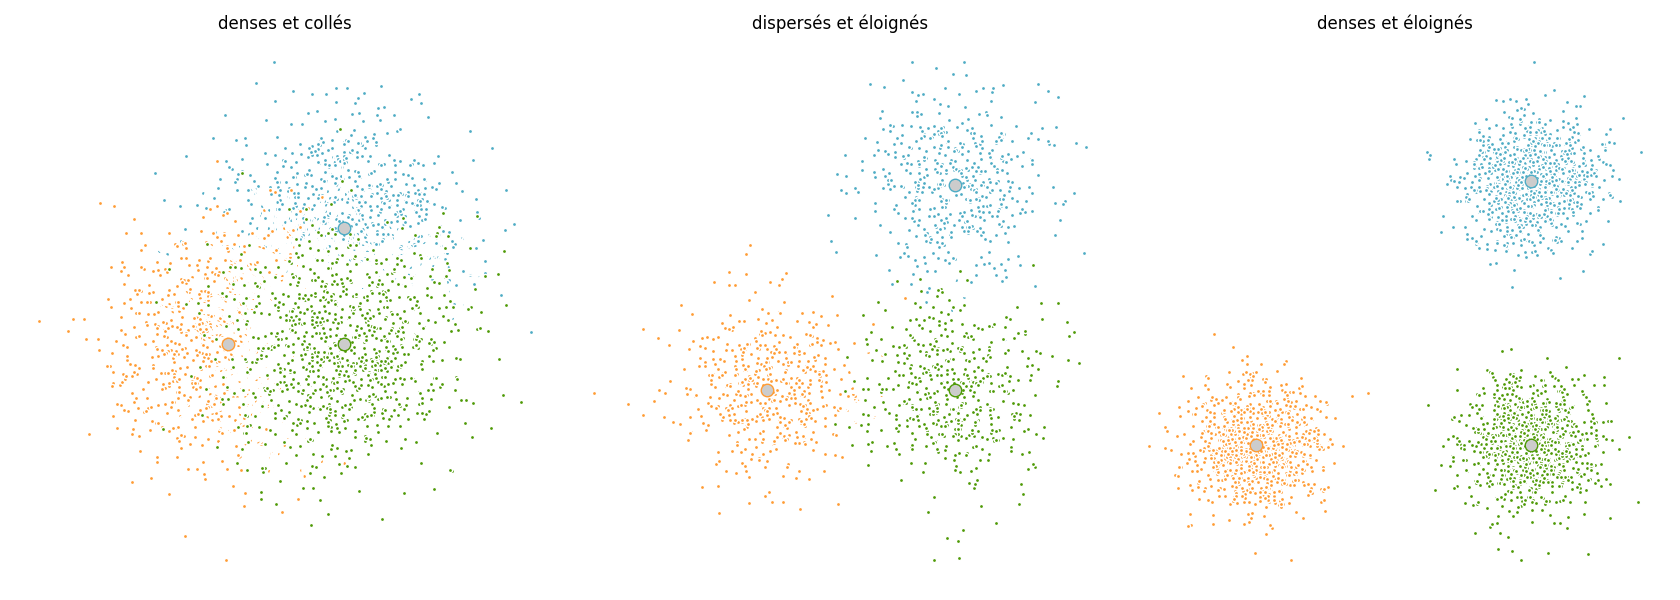
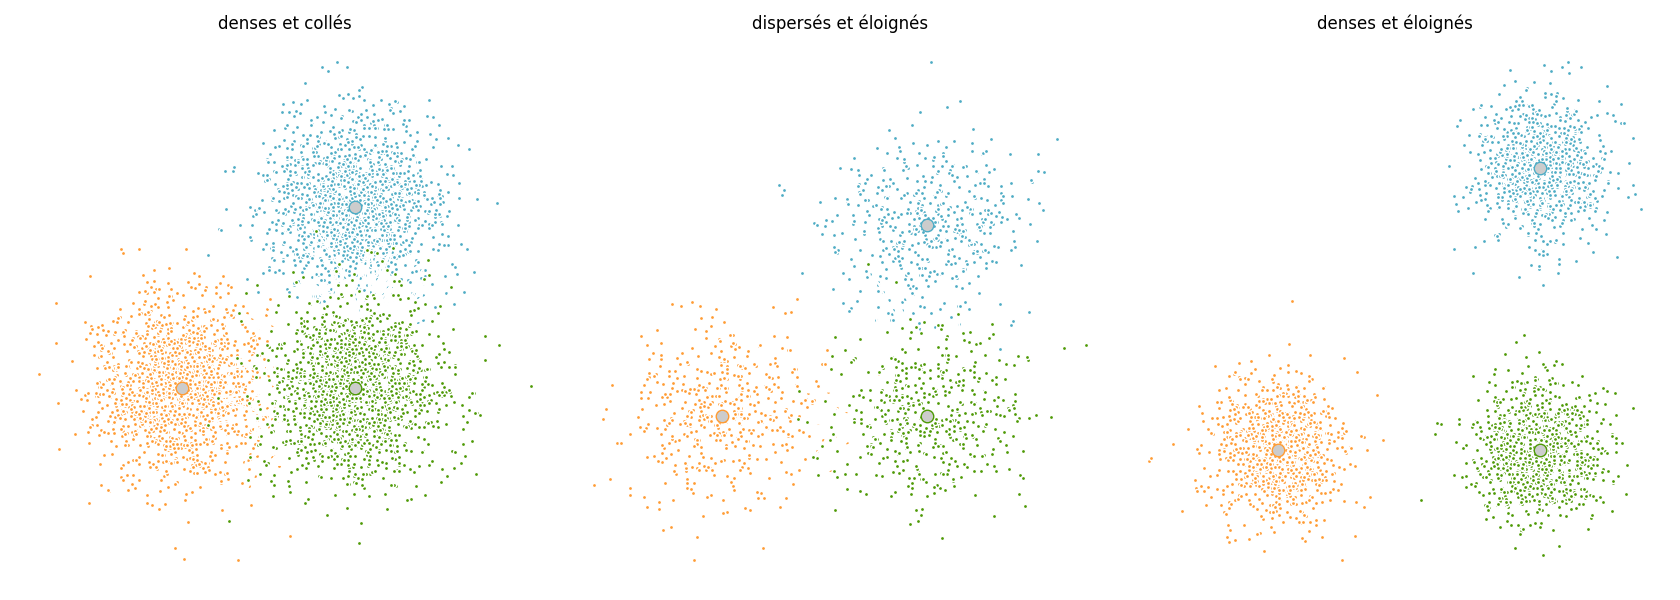
P4C3 draft

diff --git a/python/p2c4_blob_kmeans.py b/python/p2c4_blob_kmeans.py
@@ -10,13 +10,13 @@ import matplotlib.pyplot as plt
 
 centers = [[1, 1], [-1, -1], [1, -1]]
 
-if False:
+if True:
     colors = ["#4EACC5", "#FF9C34", "#4E9A06","#111111"]
 
     fig = plt.figure(figsize=(18, 6))
 
     groups = {
-        'coh_near' : {'centers': [[0.2, 0.2], [-0.2, -0.2], [0.2, -0.2]], 'std_': 0.2, 'title': "denses et collés", 'n_samples': 3000},
+        'coh_near' : {'centers': [[0.2, 0.2], [-0.2, -0.2], [0.2, -0.2]], 'std_': 0.1, 'title': "denses et collés", 'n_samples': 5000},
         'disp_far' : {'centers': [[4, 4], [-4, -4], [4, -4]], 'std_': 1.9, 'title': "dispersés et éloignés", 'n_samples': 1500},
         'coh_far' : {'centers': [[2, 2], [-2, -2], [2, -2]], 'std_': 0.5, 'title': "denses et éloignés", 'n_samples': 3000},
     }
@@ -91,7 +91,7 @@ if False:
 
 # ---
 
-if True:
+if False:
 
     centers = [[2, 2], [-2, -2], [2, -2]]
     X, labels_true = make_blobs(n_samples=3000, centers=centers, cluster_std=0.9)

diff --git a/P4C3_ensembling.md b/P4C3_ensembling.md
@@ -1,0 +1,109 @@
+Pour finir ce cours nous allons voir une technique magique appelé appretissage d'ensemble ou  ensembling en Anglais.
+
+Cette technique fonctionne avec la plupart des modeles mais est particulierement efficace avec les arbres de decision.
+Ele donne naissance a un nouveau type de modele, les forets aléatoires.
+On se croirait dans de la science fiction des annees 70'!
+
+
+L'idee de l'ensemblage / bling est simple
+
+Combiner les  predictions de plusieurs modeles de predictions sous optimisés pour construire un modele tres performant.
+
+L'idé est profondément démocratique
+
+Au lieu de prendre l'avis d'un expert (rôle joué par un modèle hyper optimisé), vous choisissez de vous fier au résultat du vote de nombreuses personnes qui sont loin d'être des expertes dans le sujet (rôle joué par les modèles peu performants).
+
+Dans la pratique du machine learning, cette apprentissage d'ensemble ou ensemble learning, est très efficiace.
+
+Au dela de l'optimisation des scores de predictions, la technique d'ensemble permet aussi
+
+- de réduire l'overfit
+- de réduire le biais
+- d'etre robustes face aux outliers et aux bruit
+- de connaitre le poids des differentes variables dans le score du model. Une ... appelé feature importance qui est très utile.
+
+on va donc
+
+- choisir un modele faible, appelé weak learner
+- selectionner de facon aleatoire un sous ensemble des données d'entrainement
+- selectionner une partie des variables d'entree
+- entrainer ce modele sur ce sous ensemble de données et de variables
+
+On obtient donc N modeles qui on vu chacun une partie des données d'entraînement et qui sont capables de faire desprediction a partir d'une partie des variables predictives.
+
+A ce stade, on va combiner les predictions de ces modeles
+- soit en prenant la moyenne des predictions dans le cas de la regression
+- soit par un systeme de vote dans le cas de la classification. La categorie étant  la plus prédite par les weak learners est la catégorie prédite.
+
+On appelle cela la technique du bagging. mise dans un sac.
+
+Appliqué aux arbres de décisions, le bagging donne le modèle Random Forest qui existe en version classification RandomForestClassifier et régression RandomForestRegressor
+Ici le weak learner sera un arbre de decision fortement contraint. Par exemple en limitant sa profondeur a 2 ou 3 niveau.
+
+On retrouve les parametres d'un arbre de decision,  entre autre max_depth sur lequel nous avons deja travaillé.
+
+Mais l'on pourra aussi regler entre autre
+- n_estimators: le nombre d'arbre dans la foret. Par defaut 100
+- max_features: le nombre de variables qui sont considérées pour chaque arbre. Par defaut la racine carrée du nombre total de variables
+- bootstrap: un boolean indiquant si chaque arbre est entrainé sur l'integralité du jeu de données ou une partie échantillonnée
+
+
+Note: le bootstrap  est un technique d'ehcantillonge qui consiste a construire un ensemble echantilloneé a partir d'un ensemble d'origine. A chaque selection d'un echantillon l'element est remis dans l'ensemble source. L'ensemble ehcnatillonée contiendra donc des doublons des ehcantillons de la source. Mais c'est voulu et offre certaines proprietes satistique fortes utiles.
+
+En répetant une experience sur un bootstrap du jeu de données initial, on obtient un interval de confiance pour chqaue prediction.
+
+
+Regardons comment evolue le score de notre classfiier en accroissant le nombre d'arbres.
+
+On va considerer un weak learner de profondeur 3. nous avons vu au chapitre P4C1  que les perforamnce  de ce modele ne sont pas tres bonnes.
+
+code + fig
+
+En augmentant le nombre d'arbres on voit que l'on atteint un plateau a partir de N = ... .
+Apres cette valeur le score sur le test n'augmente pas
+
+---
+
+Cela nous amene maintenant a aborder la championne de tous les modeles
+la lionne face a la gazelle (regresion lneaire),
+le modele qui gagne  toutes les competitions Kaggle depuis 2018,
+la progeniture d'une foret aleatoire avec un gradient stochastique
+j'ai nommé le XGBoost!
+
+Le XGBoost implemente une autre forme d'appretissage ensembliste  qu'est le boosting.
+Le boosting lit: to boost: soulever ou élever en poussant par l'arrière ou par le bas.
+consiste a enchainer les etapes d'entrainement des weak learners aggrégés en random forests
+en se concentrant a  chaque iteration sur les echantillons qui  ont genere le plus d'erreurs
+
+Le XGBoost existe  en pluseirs versions (LightGBM, CatBoost, scikit-learn's GBM ) toutes aussi efficiaces mais qui vont se distinguer par
+- leur rapidité d'entrainement
+- l'utilsiationd e la memoire
+- la facon de constituer les ensemble d'arbres
+- la facon de traiter les variables categoriques
+- la denomination et  signification des  parametres. Voir a ce sujet l'excellent post https://machinelearningmastery.com/configure-gradient-boosting-algorithm/
+
+ici nous allons utiliser  la version scikit-learn du XGBoost : GBM
+GradientBoostingClassifier
+https://scikit-learn.org/stable/modules/generated/sklearn.ensemble.GradientBoostingClassifier.html
+
+Au niveau des parametres nous allons considere donc un nouveau paramatre
+- le learning rate qui dicte la quantité de correction prise en conpte a chaque  iteratioin
+
+Optimiser le modele de=vient  plus difficile au fur et a mesure que le nombre de parametre augmente.
+
+Une bonne stratégie consiste a trouver d'abord la valeur optimale pour le nombre d'arbres
+
+1. fixer,  max_depth a 3 (la valeur par defaut), et le learning rate a 0.01 (moins que la valeur par defaut)
+2. optimiser le nombre d'arbres en faisant un grid search avec validation croisee  sur differentes valeurs. par exemple
+10, 50, 100, 200, 500
+
+une fois le nombre arbres optimal trouvé, vous vous attacherai a optimiser le learning rate
+
+puis a faire varier le max-depth mais a ce stade ca ne devrait pas changer grand chose.
+
+tout cela depend enormement de votre contexte.
+
+pour optimiser le learning rate, gardez cela en tete
+
+un learning rate elevé fera converger l'algorityhme rapidement mais avec une erreur plus forte
+en reduisant le learning, vous allez ralentir la convergence de l'algorithme et en meme temps faire decroitre l'erreur et donc croitre le score, jsuqu'a atteindre  un plateau.  
